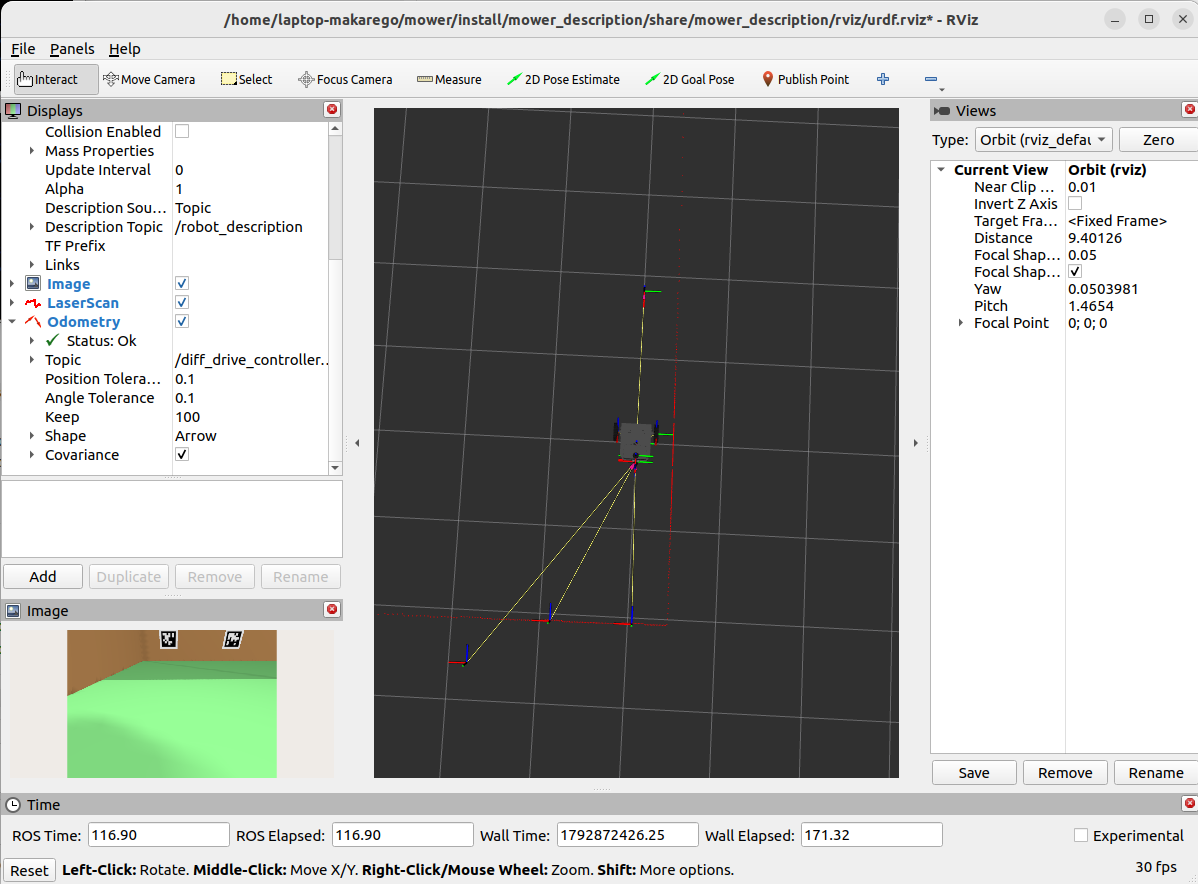
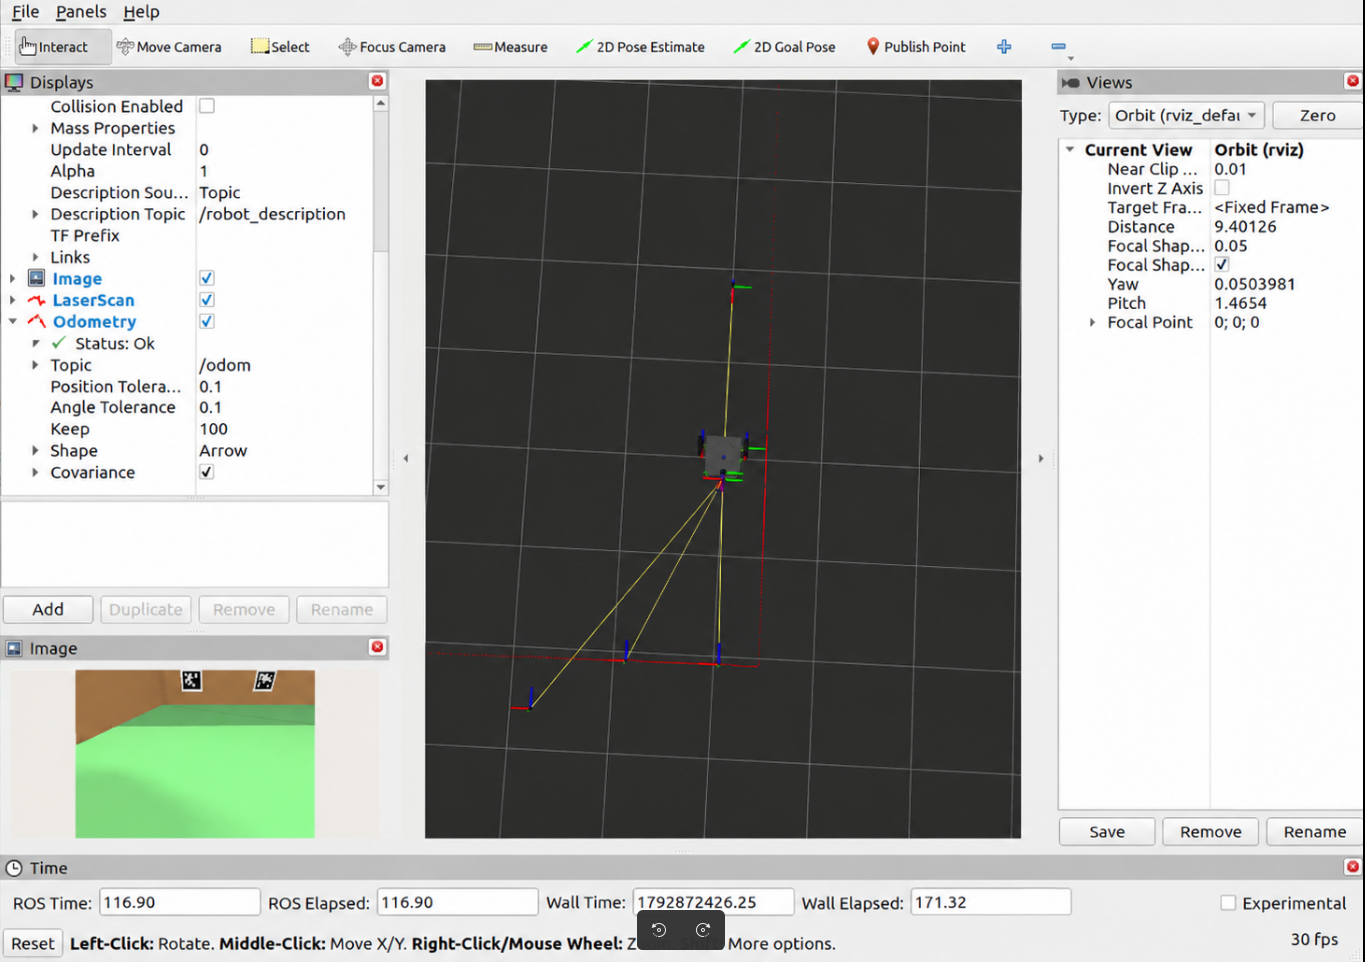
modified readme

diff --git a/src/mower_controller/launch/controllers.launch.py b/src/mower_controller/launch/controllers.launch.py
@@ -2,6 +2,9 @@ import os
 
 from ament_index_python.packages import get_package_share_directory
 from launch import LaunchDescription
+from launch.actions import DeclareLaunchArgument
+from launch.conditions import IfCondition
+from launch.substitutions import LaunchConfiguration
 from launch_ros.actions import Node
 
 
@@ -12,7 +15,10 @@ def generate_launch_description():
     )
 
     apriltag_params = os.path.join(
-    get_package_share_directory('mower_description'), 'config', 'apriltag.yaml')
+        get_package_share_directory('mower_description'), 'config', 'apriltag.yaml')
+
+    mowing_arg = DeclareLaunchArgument('mowing', default_value='false')
+    mowing_enabled = IfCondition(LaunchConfiguration('mowing'))
 
     joint_state_broadcaster_spawner = Node(
         package='controller_manager',
@@ -25,14 +31,14 @@ def generate_launch_description():
     )
 
     wheel_velocity_spawner = Node(
-    package='controller_manager',
-    executable='spawner',
-    arguments=[
-        'wheel_velocity_controller',
-        '--param-file',
-        controllers_config,
-    ],
-)
+        package='controller_manager',
+        executable='spawner',
+        arguments=[
+            'wheel_velocity_controller',
+            '--param-file',
+            controllers_config,
+        ],
+    )
 
     drive_node = Node(
         package='mower_controller',
@@ -41,21 +47,24 @@ def generate_launch_description():
         parameters=[{'use_sim_time': True}],
         output='screen'
     )
-    mowing_alghoritm = Node(
-            package='mower_controller',
-            executable='mowing_node.py',
-            name='mowing_alghoritm_node',
-            parameters=[{'use_sim_time': True}],
-            output='screen'
-        )
+
+    mowing_algorithm = Node(
+        package='mower_controller',
+        executable='mowing_node.py',
+        name='mowing_algorithm_node',
+        parameters=[{'use_sim_time': True}],
+        output='screen',
+        condition=mowing_enabled
+    )
 
     grass_detector_node = Node(
-            package='mower_controller',
-            executable='grass_detector.py',
-            name='grass_detector',
-            parameters=[{'use_sim_time': True}],
-            output='screen'
-        )
+        package='mower_controller',
+        executable='grass_detector.py',
+        name='grass_detector',
+        parameters=[{'use_sim_time': True}],
+        output='screen',
+        condition=mowing_enabled
+    )
 
     apriltag_node = Node(
         package='apriltag_ros',
@@ -76,11 +85,12 @@ def generate_launch_description():
 
     return LaunchDescription(
         [
+            mowing_arg,
             joint_state_broadcaster_spawner,
             wheel_velocity_spawner,
             drive_node,
             grass_detector_node,
-            mowing_alghoritm,
+            mowing_algorithm,
             apriltag_node,
             tag_feedback_node
         ]

diff --git a/src/mower_controller/scripts/mowing_node.py b/src/mower_controller/scripts/mowing_node.py
@@ -10,6 +10,7 @@ from geometry_msgs.msg import Twist
 from sensor_msgs.msg import Image
 
 
+
 class MowingAlgorithm(Node):
 
     STATE_FORWARD = "FORWARD"
